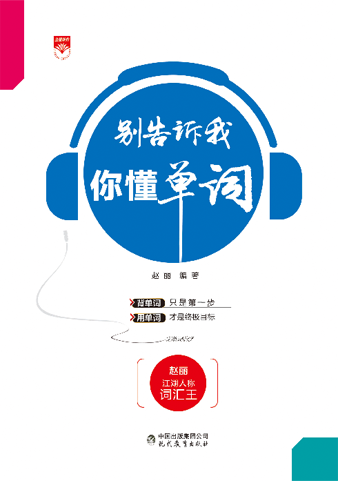
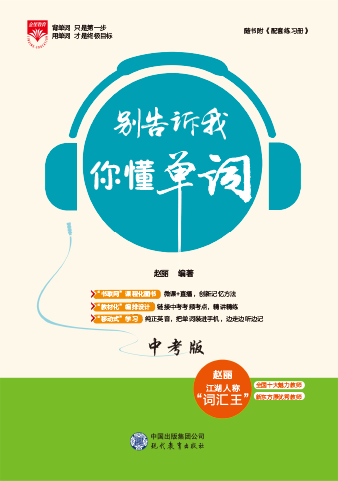
update book pic,chagne load data logic of read mode.

diff --git a/wxapp/pages/listen-read-mode/listen-read-mode.js b/wxapp/pages/listen-read-mode/listen-read-mode.js
@@ -20,19 +20,14 @@ Page({
       progressAll: 0,
       progressPercent: 0,
     },
-
-
     ExtraList: {
       liju: "Place \nyour hands on your shoulders and move your elbows up, back, and down, in a circular motion\n手置于肩上，肘部向上、向后、向下做圆圈运动。\nBoth sides of the river can be explored on this circular walk\n沿着这条环行线路走一圈，河的两边都可以看到。",
       shipin: "http://wxsnsdy.tc.qq.com/105/20210/snsdyvideodownload?filekey=30280201010421301f0201690402534804102ca905ce620b1241b726bc41dcff44e00204012882540400&bizid=1023&hy=SH&fileparam=302c020101042530230204136ffd93020457e3c4ff02024ef202031e8d7f02030f42400204045a320a0201000400"
     },
-
     src: 'http://ws.stream.qqmusic.qq.com/M500001VfvsJ21xFqb.mp3?guid=ffffffff82def4af4b12b3cd9337d5e7&uin=346897220&vkey=6292F51E1E384E06DCBDC9AB7C49FD713D632D313AC4858BACB8DDD29067D3C601481D36E62053BF8DFEAF74C0A5CCFADD6471160CAF3E6A&fromtag=46',
-
     picture: 'http://img.zcool.cn/job/groups/b445558d077800000141f02f67a5.jpg',
     collectionPic:'../../img / icon - collect - off.png',
     userInfo: {}
-
   },
 
   /**
@@ -218,42 +213,44 @@ Page({
 
   },
 
+  setWordList: function (list, that) {
+    var perNum = that.data.index + 1;
+    that.data.progressItem.progressNum = perNum;
+    that.data.progressItem.progressAll = list.length;
+    that.data.progressItem.progressPercent = perNum / list.length * 580;
+    that.setData({
+      wordInfoList: list,
+      wordInfo: list[that.data.index],
+      progressItem: that.data.progressItem,
+      cixing: list[that.data.index].WordDetail.ExplainList,
+    });
+  },
   reciteWordList: function (options) {
     var that = this;
+    if(app.getCurrentList() != null) {
+      that.setWordList(app.getCurrentList(), that);
+      return;
+    }
     wx.showLoading({
       title: '加载中',
       mask: true,
     })
     wx.request({
       url: 'https://openapi.yqj.cn/MockAPI/WordLearning/GetWordList',
-
       data: {
-        lid: options.lid,
+        ListID: options.lid,
         IsLoadExtra: true,
         StartChar: options.query,
         UserID: app.getUserID(),
         mode:options.mode,
       },
-
       header: {
         'Content-Type': 'application/json'
       },
       success: function (res) {
         wx.hideLoading({});
         var list = res.data.Data;
-
-        var perNum = that.data.index + 1;
-        that.data.progressItem.progressNum = perNum;
-        that.data.progressItem.progressAll = list.length;
-        that.data.progressItem.progressPercent = perNum / list.length * 580;
-
-        that.setData({
-          wordInfoList: list,
-          wordInfo: list[that.data.index],
-          progressItem: that.data.progressItem,
-          cixing: list[that.data.index].WordDetail.ExplainList,
-        });
-
+        that.setWordList(list,that);
       },
       fail: function (res) {
         wx.hideLoading({})
@@ -263,39 +260,28 @@ Page({
   },
   collectionWorldList: function (options) {
     var that = this;
+    if (app.getCurrentList() != null) {
+      that.setWordList(app.getCurrentList(), that);
+      return;
+    }
     wx.showLoading({
       title: '加载中',
       mask: true,
     })
     wx.request({
       url: 'https://openapi.yqj.cn/MockAPI/WordLearning/GetCollectionList',
-
       data: {
         UserID: app.getUserID(),
         BookID: app.getBookID(),
       
       },
-
       header: {
         'Content-Type': 'application/json'
       },
       success: function (res) {
         wx.hideLoading({});
         var list = res.data.Data;
-
-        var perNum = that.data.index + 1;
-        that.data.progressItem.progressNum = perNum;
-        that.data.progressItem.progressAll = list.length;
-        that.data.progressItem.progressPercent = perNum / list.length * 580;
-
-        that.setData({
-          wordInfoList: list,
-          wordInfo: list[that.data.index],
-          progressItem: that.data.progressItem,
-          cixing: list[that.data.index].WordDetail.ExplainList,
-
-        });
-
+        that.setWordList(list, that);
       },
       fail: function (res) {
         wx.hideLoading({})

diff --git a/wxapp/pages/lists/collect.js b/wxapp/pages/lists/collect.js
@@ -26,6 +26,7 @@ Page({
       that.setData({
         demo_data:data
       });
+      app.setCurrentList(data);
     })
   },
 
@@ -49,14 +50,14 @@ Page({
    * 生命周期函数--监听页面隐藏
    */
   onHide: function () {
-  
+    app.setCurrentList(null);
   },
 
   /**
    * 生命周期函数--监听页面卸载
    */
   onUnload: function () {
-  
+    app.setCurrentList(null);  
   },
 
   /**

diff --git a/wxapp/app.js b/wxapp/app.js
@@ -120,5 +120,17 @@ App({
   },
   isCollectOverdue: function () {
     return this.changeMark[1][0] > this.changeMark[1][1];
+  },
+
+  currentList : null,
+  getCurrentList: function() {
+    return this.currentList;
+  },
+  setCurrentList: function(list) {
+    if(list && list.length > 0){
+      this.currentList = list;
+    }else {
+      this.currentList = null;
+    }
   }
 })
